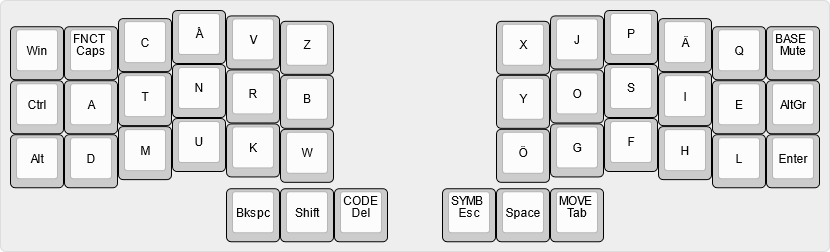
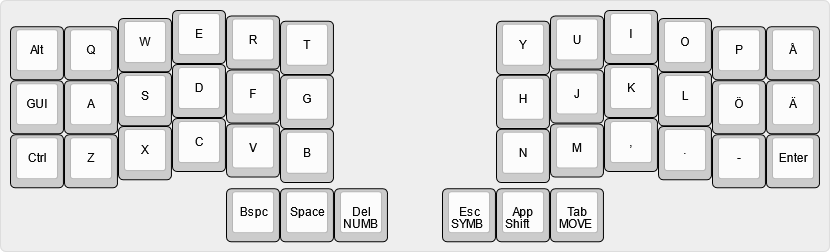
Pretty pictures and a few fixes

diff --git a/README.md b/README.md
@@ -1,1 +1,17 @@
 # QWERTY
+
+## Base layer
+
+![00_BASE](layers/00_BASE.png)
+
+## Symbols
+
+![01_SYMB](layers/01_SYMB.png)
+
+## Numbers
+
+![02_NUMB](layers/02_NUMB.png)
+
+## Movement and things
+
+![03_MOVE](layers/03_MOVE.png)
